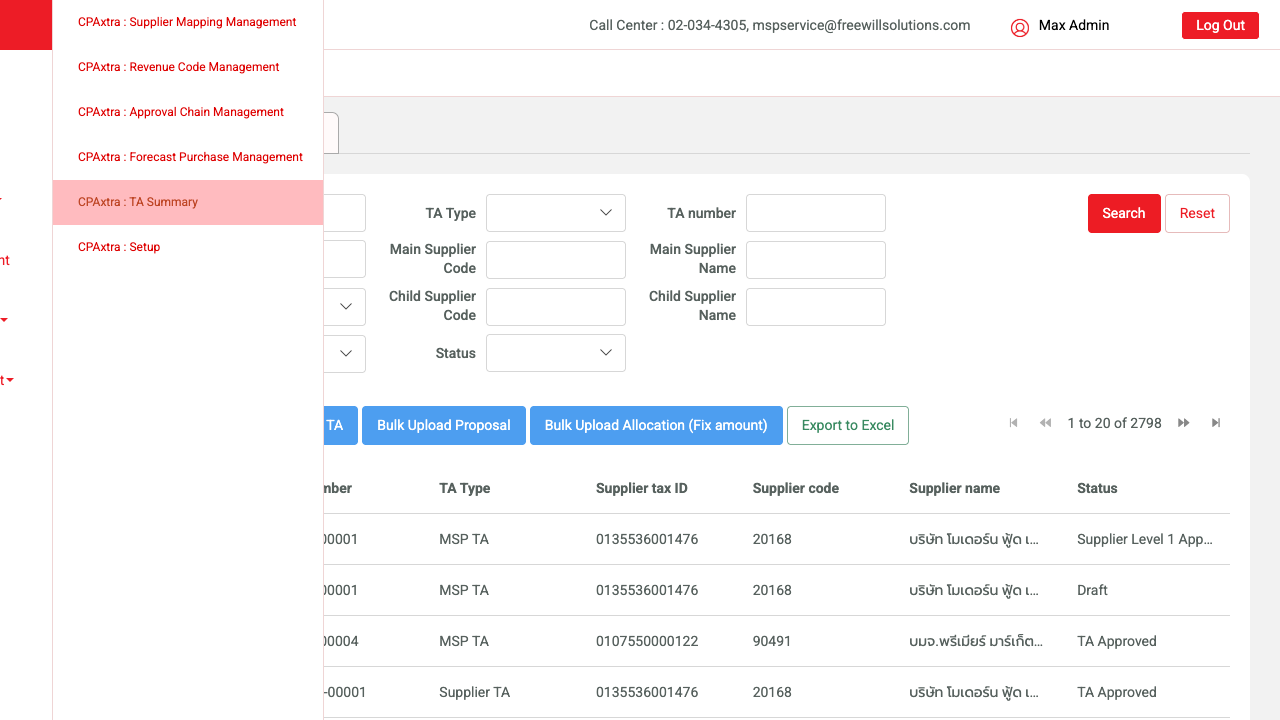
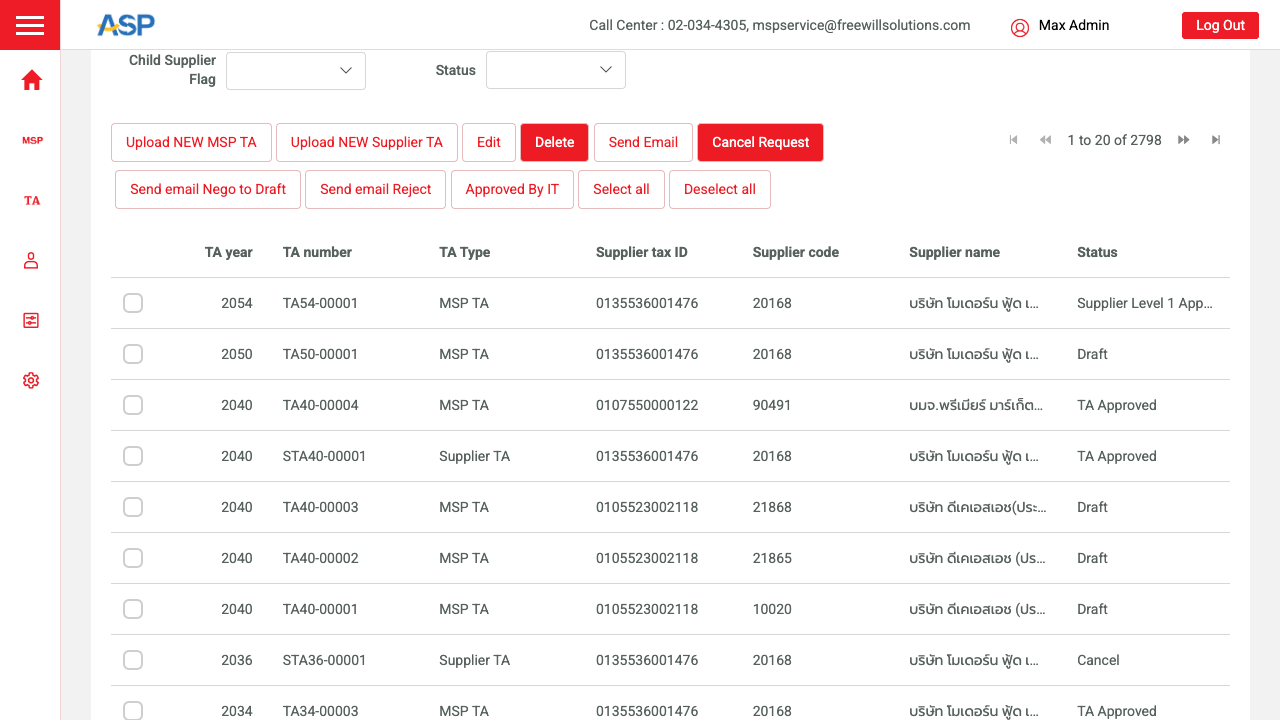
ifx

diff --git a/src/pages/uploadPage.js b/src/pages/uploadPage.js
@@ -116,21 +116,28 @@ class UploadPage {
           // Wait for modal to be fully loaded
           await this.page.waitForTimeout(1000);
           
+          // Debug: Take screenshot to see the popup
+          await this.page.screenshot({ path: 'logs/success-popup-debug.png' });
+          console.log('📸 Success popup screenshot saved');
+          
           const okButtonSelectors = [
-            // From HTML structure: <button class="btn btn-primary">OK</button> inside .modal-footer
-            '.modal-footer button.btn.btn-primary',
-            '.modal-footer .btn.btn-primary',
-            '.modal-footer button:has-text("OK")',
-            // Alternative modal structures
-            '.mx-dialog-footer button.btn.btn-primary',
-            '.mx-dialog-footer .btn-primary',
-            // Generic selectors
-            'button.btn.btn-primary:has-text("OK")',
-            '.btn-primary:has-text("OK")',
+            // From the screenshot - red OK button in Information popup
             'button:has-text("OK")',
-            // Fallback - any button in modal
-            '.modal button',
-            '.mx-dialog button'
+            'input[type="button"][value="OK"]',
+            'input[value="OK"]',
+            // Try different button selectors
+            '.btn:has-text("OK")',
+            'button.btn:has-text("OK")',
+            // Generic selectors for any OK button
+            'text=OK',
+            '[value="OK"]',
+            // Modal/dialog selectors
+            '.modal button:has-text("OK")',
+            '.modal-dialog button:has-text("OK")',
+            '.modal-content button:has-text("OK")',
+            // Any button that contains OK
+            'button[onclick*="OK"]',
+            'button[title*="OK"]'
           ];
           
           let okClicked = false;
@@ -141,47 +148,64 @@ class UploadPage {
               console.log(`   Trying OK selector: ${okSelector} - found ${count}`);
               
               if (count > 0) {
-                // Wait for button to be visible and enabled
-                await this.page.waitForTimeout(300);
-                
-                const isVisible = await okButton.first().isVisible();
-                const isEnabled = await okButton.first().isEnabled();
-                console.log(`   Button visible: ${isVisible}, enabled: ${isEnabled}`);
-                
-                if (isVisible && isEnabled) {
-                  console.log(`✅ Found OK button: ${okSelector}`);
-                  
-                  // Try clicking with different methods
+                // Check each element to find the right OK button
+                for (let i = 0; i < count; i++) {
                   try {
-                    // Method 1: Wait for button to be clickable and click
-                    await okButton.first().waitFor({ state: 'visible' });
-                    await okButton.first().click({ timeout: 5000 });
-                    console.log('✅ OK button clicked successfully');
-                    okClicked = true;
-                  } catch (clickError) {
-                    console.log('⚠ Regular click failed, trying force click...');
+                    const element = okButton.nth(i);
+                    const isVisible = await element.isVisible();
+                    const isEnabled = await element.isEnabled();
                     
-                    try {
-                      await okButton.first().click({ force: true, timeout: 5000 });
-                      console.log('✅ OK button force clicked');
-                      okClicked = true;
-                    } catch (forceError) {
-                      console.log('⚠ Force click failed, trying JavaScript click...');
+                    if (isVisible && isEnabled) {
+                      // Get button details for debugging
+                      const text = await element.textContent();
+                      const tagName = await element.evaluate(el => el.tagName);
+                      const className = await element.getAttribute('class');
+                      const onclick = await element.getAttribute('onclick');
                       
-                      try {
-                        await okButton.first().evaluate(el => el.click());
-                        console.log('✅ OK button clicked via JavaScript');
-                        okClicked = true;
-                      } catch (jsError) {
-                        console.log(`⚠ All click methods failed: ${jsError.message}`);
+                      console.log(`   Button ${i}: ${tagName} text="${text}" class="${className}" onclick="${onclick}"`);
+                      
+                      if (text && text.trim().toUpperCase() === 'OK') {
+                        console.log(`✅ Found OK button: ${okSelector} (element ${i})`);
+                        
+                        // Try multiple click methods
+                        try {
+                          // Method 1: JavaScript click
+                          await element.evaluate(el => el.click());
+                          console.log('✅ OK button clicked via JavaScript');
+                          okClicked = true;
+                          break;
+                        } catch (jsError) {
+                          console.log('⚠ JavaScript click failed, trying force click...');
+                          
+                          try {
+                            await element.click({ force: true });
+                            console.log('✅ OK button force clicked');
+                            okClicked = true;
+                            break;
+                          } catch (forceError) {
+                            console.log('⚠ Force click failed, trying regular click...');
+                            
+                            try {
+                              await element.click();
+                              console.log('✅ OK button clicked successfully');
+                              okClicked = true;
+                              break;
+                            } catch (clickError) {
+                              console.log(`⚠ All click methods failed: ${clickError.message}`);
+                            }
+                          }
+                        }
                       }
                     }
+                  } catch (e) {
+                    console.log(`   Error checking element ${i}: ${e.message}`);
+                    continue;
                   }
-                  
-                  if (okClicked) {
-                    await this.page.waitForTimeout(500);
-                    break;
-                  }
+                }
+                
+                if (okClicked) {
+                  await this.page.waitForTimeout(500);
+                  break;
                 }
               }
             } catch (e) {

diff --git a/src/pages/navigationPage.js b/src/pages/navigationPage.js
@@ -14,14 +14,11 @@ class NavigationPage {
     await this.page.waitForLoadState('networkidle');
     await this.page.waitForTimeout(300);
     
-    // Step 1: Click Trading Agreement menu to expand it
-    await this.clickTradingAgreementMenu();
+    // Step 1: Click Setup in left menu
+    await this.clickSetupInLeftMenu();
     
-    // Step 2: Click Setup submenu (this will navigate to Setup page)
-    await this.clickSetupSubmenu();
-    
-    // Step 3: Click TA Summary button on Setup page
-    await this.clickTASummary();
+    // Step 2: Click Summary in Setup submenu
+    await this.clickSummaryInSetupSubmenu();
     
     console.log('✅ Successfully navigated to TA Summary page');
   }
@@ -99,8 +96,7 @@ class NavigationPage {
           if (isVisible) {
             console.log(`✅ Found Setup submenu: ${selector}`);
             await element.first().click();
-            await this.page.waitForLoadState('networkidle');
-            await this.page.waitForTimeout(500);
+            await this.page.waitForTimeout(300); // Wait for Setup submenu to expand
             setupMenuFound = true;
             break;
           }
@@ -116,24 +112,22 @@ class NavigationPage {
     }
   }
 
-  async clickTASummary() {
-    console.log('🔍 Looking for TA Summary button...');
+  async clickSetupInLeftMenu() {
+    console.log('🔍 Looking for Setup in left menu...');
     
-    // Wait for Setup page to load completely
+    // Wait for menu to be ready
     await this.page.waitForTimeout(300);
     
-    // TA Summary should be visible in Transaction Setup section - click directly
-    const taSummarySelectors = [
-      // From the screenshot, TA Summary is in Transaction Setup section
-      'text=TA Summary',
-      'a:has-text("TA Summary")',
-      '.mx-link:has-text("TA Summary")',
-      'a[data-button-id*="actionButton1"]:has-text("TA Summary")',
-      '.mx-name-actionButton1'
+    // Look for Setup in the left navigation menu
+    const setupSelectors = [
+      'text=Setup',
+      'a:has-text("Setup")',
+      '.mx-link:has-text("Setup")',
+      '[title*="Setup"]'
     ];
     
-    let taSummaryFound = false;
-    for (const selector of taSummarySelectors) {
+    let setupFound = false;
+    for (const selector of setupSelectors) {
       try {
         console.log(`🔍 Trying selector: ${selector}`);
         const element = this.page.locator(selector);
@@ -145,13 +139,66 @@ class NavigationPage {
           console.log(`   Element visible: ${isVisible}`);
           
           if (isVisible) {
-            console.log(`✅ Found TA Summary button: ${selector}`);
+            console.log(`✅ Found Setup in left menu: ${selector}`);
             
-            // Click directly - should work since we're on the right page
+            // Click Setup to expand submenu
             await element.first().click();
-            console.log('🔄 TA Summary button clicked');
+            console.log('🔄 Setup clicked');
+            await this.page.waitForTimeout(300);
             
-            // Wait for navigation
+            setupFound = true;
+            break;
+          }
+        }
+      } catch (error) {
+        console.log(`   Error: ${error.message}`);
+        continue;
+      }
+    }
+    
+    if (!setupFound) {
+      console.log('❌ Setup in left menu not found, taking screenshot...');
+      await this.page.screenshot({ path: 'logs/setup-left-menu-not-found.png' });
+      throw new Error('Setup in left menu not found');
+    }
+  }
+
+  async clickSummaryInSetupSubmenu() {
+    console.log('🔍 Looking for Summary in Setup submenu...');
+    
+    // Wait for Setup submenu to expand
+    await this.page.waitForTimeout(300);
+    
+    // Look for Summary in the expanded Setup submenu
+    const summarySelectors = [
+      'text=Summary',
+      'a:has-text("Summary")',
+      '.mx-link:has-text("Summary")',
+      'text=TA Summary',
+      'a:has-text("TA Summary")',
+      '[title*="Summary"]'
+    ];
+    
+    let summaryFound = false;
+    for (const selector of summarySelectors) {
+      try {
+        console.log(`🔍 Trying selector: ${selector}`);
+        const element = this.page.locator(selector);
+        const count = await element.count();
+        console.log(`   Found ${count} elements`);
+        
+        if (count > 0) {
+          const isVisible = await element.first().isVisible();
+          console.log(`   Element visible: ${isVisible}`);
+          
+          if (isVisible) {
+            console.log(`✅ Found Summary in Setup submenu: ${selector}`);
+            
+            // Click Summary
+            await element.first().click();
+            console.log('🔄 Summary clicked');
+            
+            // Wait for navigation to TA Summary page
             await this.page.waitForLoadState('networkidle');
             await this.page.waitForTimeout(1000);
             
@@ -167,7 +214,7 @@ class NavigationPage {
               await this.page.screenshot({ path: 'logs/ta-summary-form-not-loaded.png' });
             }
             
-            taSummaryFound = true;
+            summaryFound = true;
             break;
           }
         }
@@ -177,10 +224,10 @@ class NavigationPage {
       }
     }
     
-    if (!taSummaryFound) {
-      console.log('❌ TA Summary button not found, taking screenshot...');
-      await this.page.screenshot({ path: 'logs/ta-summary-not-found.png' });
-      throw new Error('TA Summary button not found with any selector');
+    if (!summaryFound) {
+      console.log('❌ Summary in Setup submenu not found, taking screenshot...');
+      await this.page.screenshot({ path: 'logs/summary-in-setup-submenu-not-found.png' });
+      throw new Error('Summary in Setup submenu not found');
     }
   }
 }
